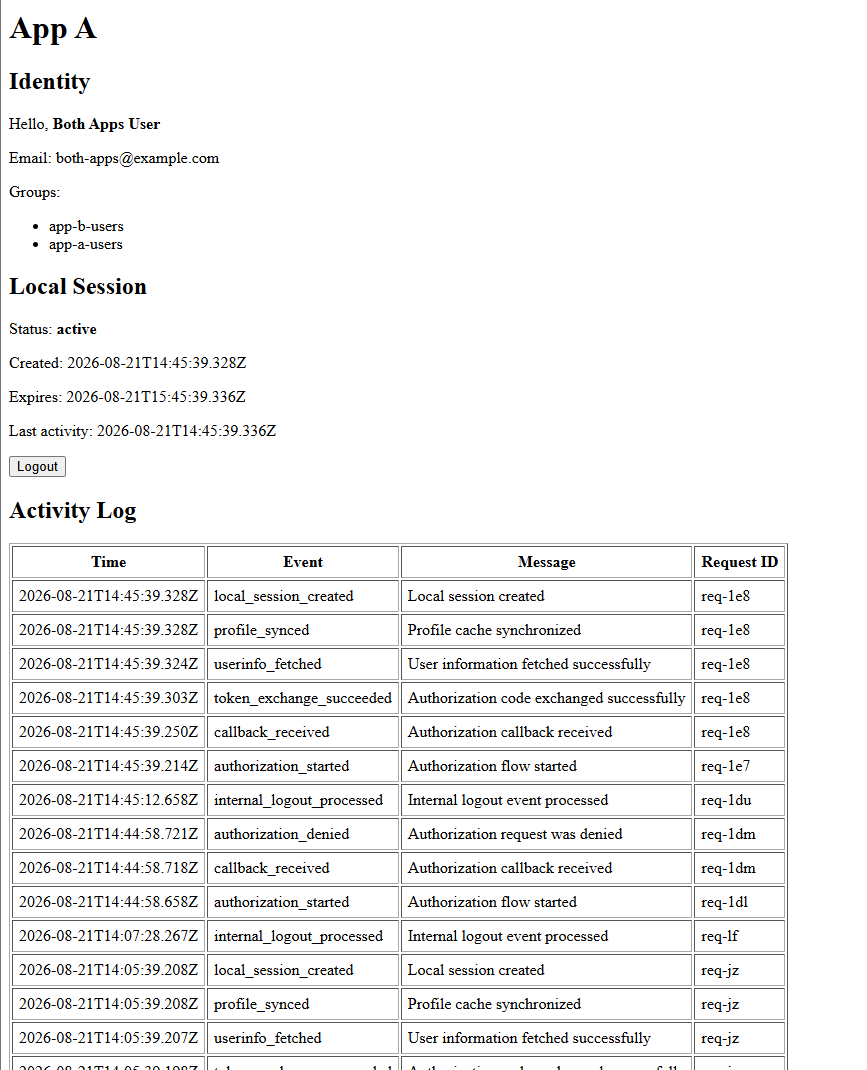
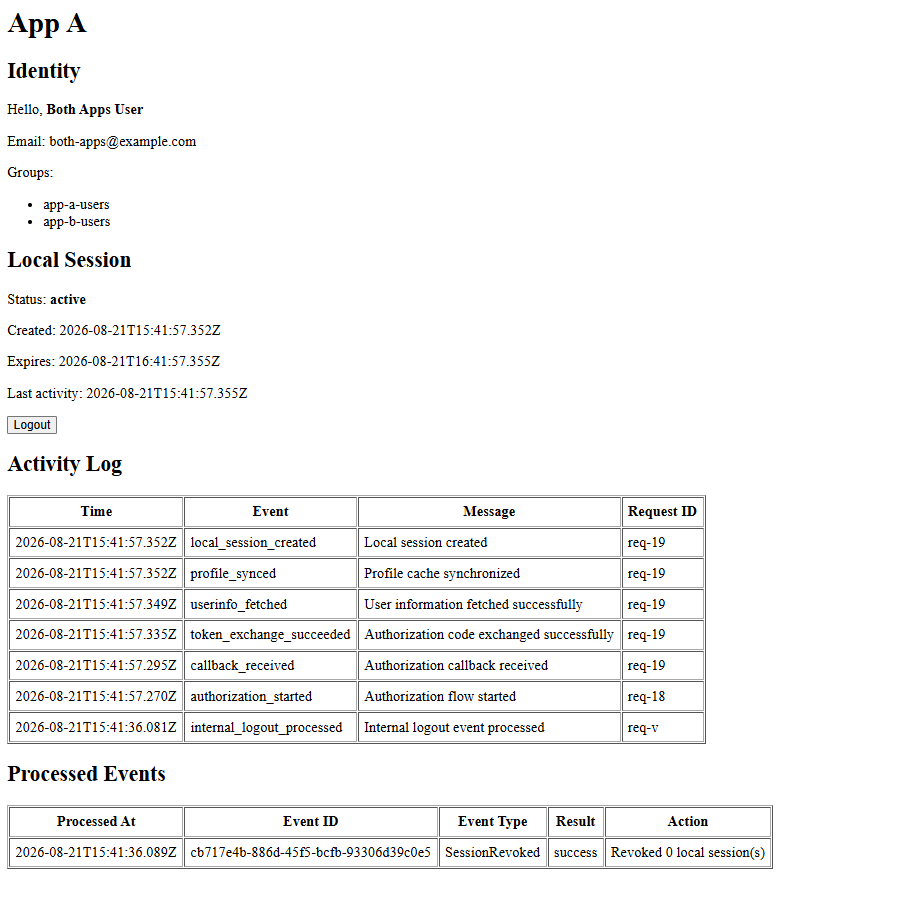
doc

Changed region(s): [[0.0, 0.0, 0.9031, 1.0]]

diff --git a/README.md b/README.md
@@ -300,13 +300,13 @@ Auth Server, Event Publisher, dan Sync Worker menangani `SIGTERM`/`SIGINT` denga
   <img src="docs/screenshots/04-control-panel-applications.png" alt="Control Panel - Application Configuration, Redirect URIs, and Access Policies" width="720">
 </p>
 
-### 5. SSO — App A Authenticated Session and Activity Log
+### 5. SSO — App A Authenticated Session, Processed Events, and Activity Log
 
 <p align="center">
   <img src="docs/screenshots/05-sso-app-a.png" alt="SSO - App A Authenticated Session and Activity Log" width="720">
 </p>
 
-### 6. SSO — App B Authenticated Session and Activity Log
+### 6. SSO — App B Authenticated Session, Processed Events, and Activity Log
 
 <p align="center">
   <img src="docs/screenshots/06-sso-app-b.png" alt="SSO - App B Authenticated Session and Activity Log" width="720">
